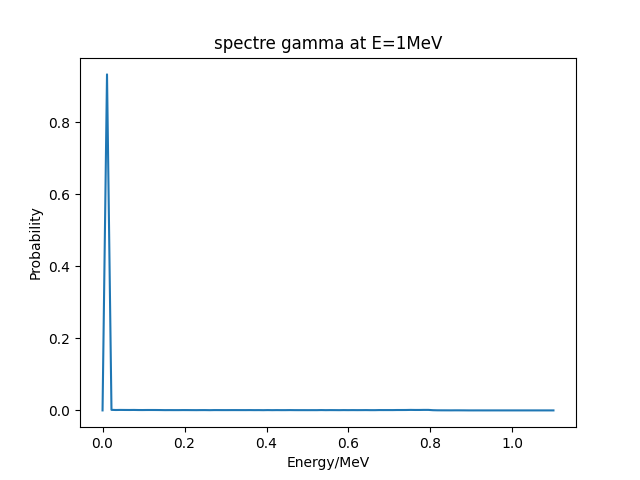
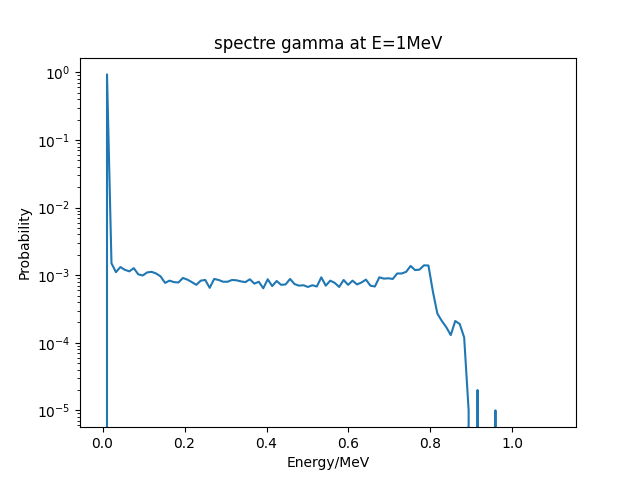
normaliser p et tracer en log

diff --git a/MCTDCRcode/MCNP-MATRIX/test_lire.py b/MCTDCRcode/MCNP-MATRIX/test_lire.py
@@ -19,6 +19,8 @@ def readMCNP(energy,np):
         data[j] = data[j].split()
         e.append(float(data[j][0]))
         p.append(float(data[j][1]))
+        
+    p /= sum(np.asarray(p)) # normaliser p
     return e,p
 
 e,p = readMCNP(1,100)
@@ -27,6 +29,7 @@ print(sum(p))
 plt.plot(e,p)
 plt.xlabel('Energy/MeV')
 plt.ylabel('Probability')
+plt.yscale('log')
 plt.title('spectre gamma at E=1MeV')
 plt.savefig('proba = f(E)_1MeV.png')
 #'''
